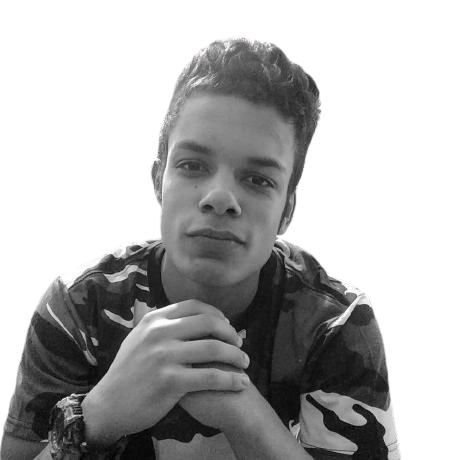
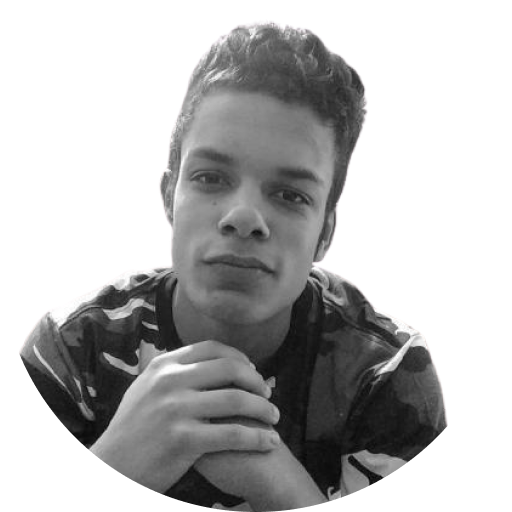
fix: image rounded

Changed region(s): [[0.0, 0.0304, 0.8826, 1.0], [0.6087, 0.8217, 0.6391, 0.8522]]

diff --git a/src/components/ImageProfile/index.tsx b/src/components/ImageProfile/index.tsx
@@ -42,12 +42,11 @@ export const ImageProfile = () => {
             <Image
               url="/img/profileImage.webp"
               transparent
-              scale={3.45}
-              radius={1.69}
+              scale={3.6}
+              radius={1.84}
             />
-             
             <Text3D
-              position={[-1.6, 1.7, 0.04]}
+              position={[-1.685, 1.7, 0.04]}
               scale={[-0.2, 0.2, 0.3]}
               font={'/fonts/inter.json'}
               bevelEnabled
